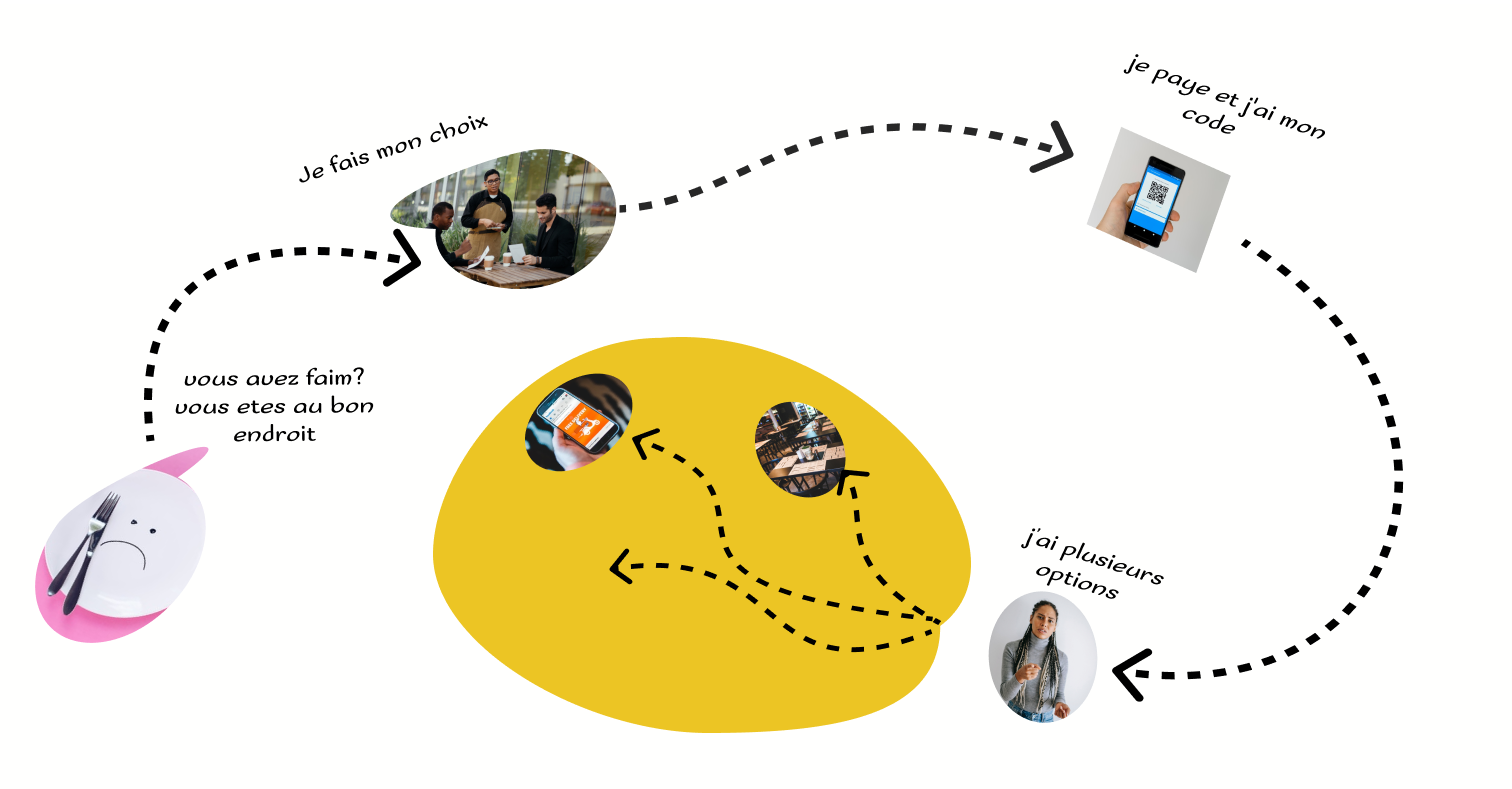
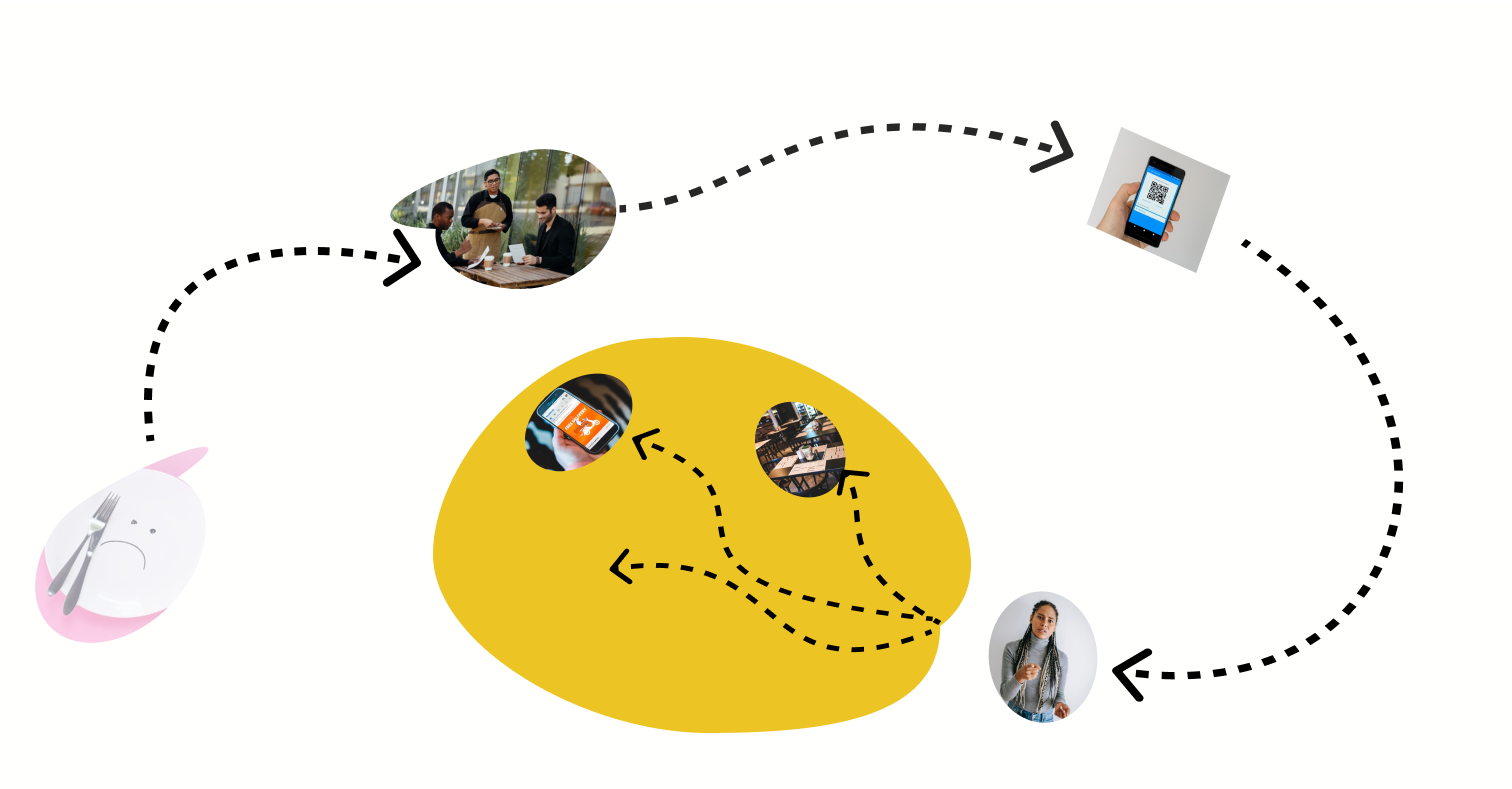
add mobile nav

diff --git a/index.html b/index.html
@@ -22,9 +22,17 @@
             <a href="" class="header_links">A propos</a>
             <a href="" class="header_links">Offres du moment</a>
             <a href="" class="header_links">S'abonner</a>
-            <button class="header_button" class="button">Connexion</button>
+            <button class="header_button button">Connexion</button>
             <img src="PanierLogo.svg" alt="logo panier" class="img_panier">
         </nav>   
+        <nav class="nav2 container">
+            <img class="header2_items boufRight_logo2" src="BoufRightLogo.svg" alt="Logo de BoufRight">
+            <button class="header2_items button_small">Connexion</button>
+            <img class="panier_logo2" src="PanierLogo.svg" alt="logo panier">
+            <img class="burger_menu_icon" src="burgermenu.svg" alt="burgermenu Icon">
+
+
+        </nav>
     </header>
     <section class="section_un">
         <h1 class="half_text">Un service exceptionnel recommandé à 100% par nos clients</h1>
@@ -87,7 +95,16 @@
         </div>
         <img src="img9.png" alt="Un jeune homme qui mange" class="about_image">
     </article>
-    <img class="customer_journey" loading="lazy" src="Img10.png" alt="chemin depuis j'ai faim jusqu'à j'ai ma nourriture">
+    <article>
+        <p class="h2">Comment ça marche</p>
+        <div class="txt_img_container">
+            <p class="txt_img1 txt_img">Vous avez faim ? Vous êtes au bon endroit</p>
+            <p class="txt_img2 txt_img">Je fais mon choix</p>
+            <p class="txt_img3 txt_img">Je paye et j'ai mon code</p>
+            <p class="txt_img4 txt_img">J'ai plusieurs options</p>
+            <img class="customer_journey" loading="lazy" src="Img10.png" alt="chemin depuis j'ai faim jusqu'à j'ai ma nourriture">
+        </div>
+    </article>
     <article class="avis_abonnes">
         <p class="h2">Les avis de nos abonnés</p>
         <div class="container avis_container">

diff --git a/integration.css b/integration.css
@@ -4,6 +4,9 @@
     src: url(Noto_Sans)
 }
 
+img {
+    max-width: 100%;
+}
 body {
     background-color: #8ED0D9;
     font-family: 'noto sans', sans-serif;
@@ -22,18 +25,48 @@ header {
 }
 
 .header_links {
-    margin-inline: 4vw;
+    margin-inline: 16px;
     font-family: 'noto sans' sans-serif;
+    flex-shrink: 1;
+}
+.header_button {
+    flex-shrink: 1;
+}
+
+}
+.header2_items {
+    flex-shrink: 1;
+}
+
+.boufRight_logo2 {
+    max-width: 30%;
+}
+
+.panier_logo2 {
+    max-width: 15%;
+}
+
+.burger_menu_icon {
+    max-width: 15%;
 }
 
 .img_panier {
     margin-left: 20px;
     margin-right: 20px;
-}
+    flex-shrink: 1;
+    }
 
 button {
     padding: 10px 45px;
     height: 45px;
+    border-radius: 10px;
+    background: #DB2540;
+    color: white;
+    border: none;
+}
+.button_small {
+    padding: 10px 15px;
+    height: 35px;
     border-radius: 10px;
     background: #DB2540;
     color: white;
@@ -68,6 +101,7 @@ h1 {
     align-items: center;
     margin-top: 30px;
     margin-right: 20px;
+    margin-left: 20px;
 }
 
 .card_container {
@@ -151,6 +185,7 @@ strong {
 .about_div {
     width: 100vw;
     background-color : white;
+    text-align: center;
 }
 
 .about_title {
@@ -173,11 +208,35 @@ width: 100vw;
 }
 
 .avis_abonnes {
-    padding:  2.5rem;
+    margin-block: 2.5rem;
+}
+
+.txt_img_container {
+    height: fit-content;
 }
 
 .customer_journey {
     width: 100vw;
+    
+}
+.txt_img {
+    position: relative;
+    width: 30vw;
+}
+.txt_img1 {
+    top: 35vw;
+}
+.txt_img2 {
+    top: 12vw;
+    left: 25vw;
+}
+.txt_img3 {
+    top: 10vw;
+    left: 70vw;
+}
+.txt_img4 {
+    top: 38vw;
+    left: 60vw;
 }
 
 footer {
@@ -254,6 +313,9 @@ footer {
 @media (min-width: 900px) {
     .nav1 {
         display: contents;
+    }
+    .nav2 {
+        display: none;
     }
 }
 
